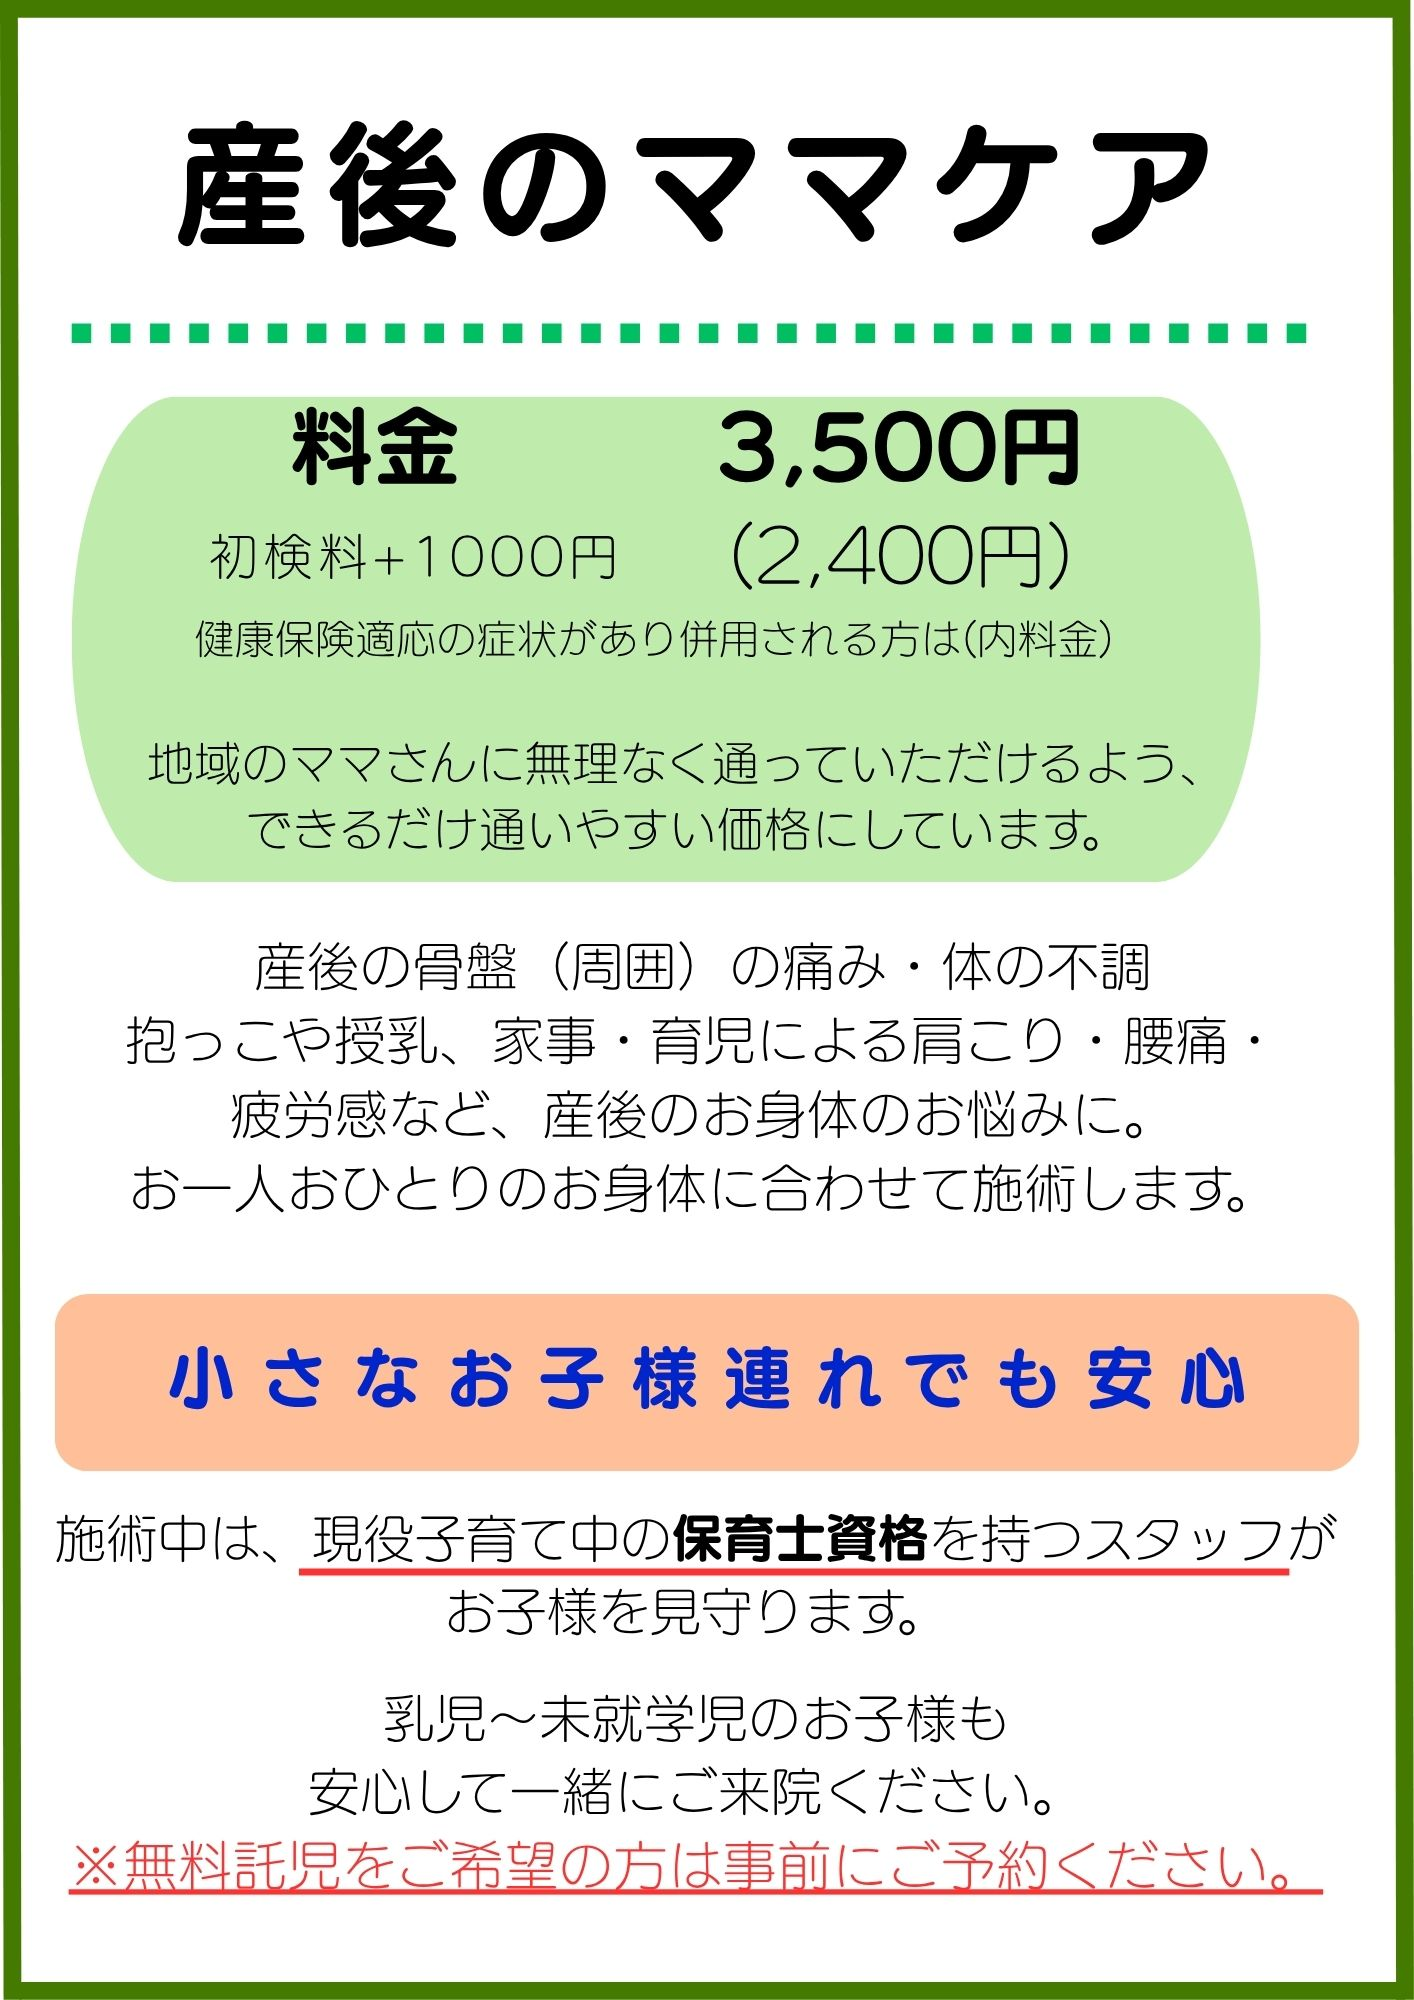
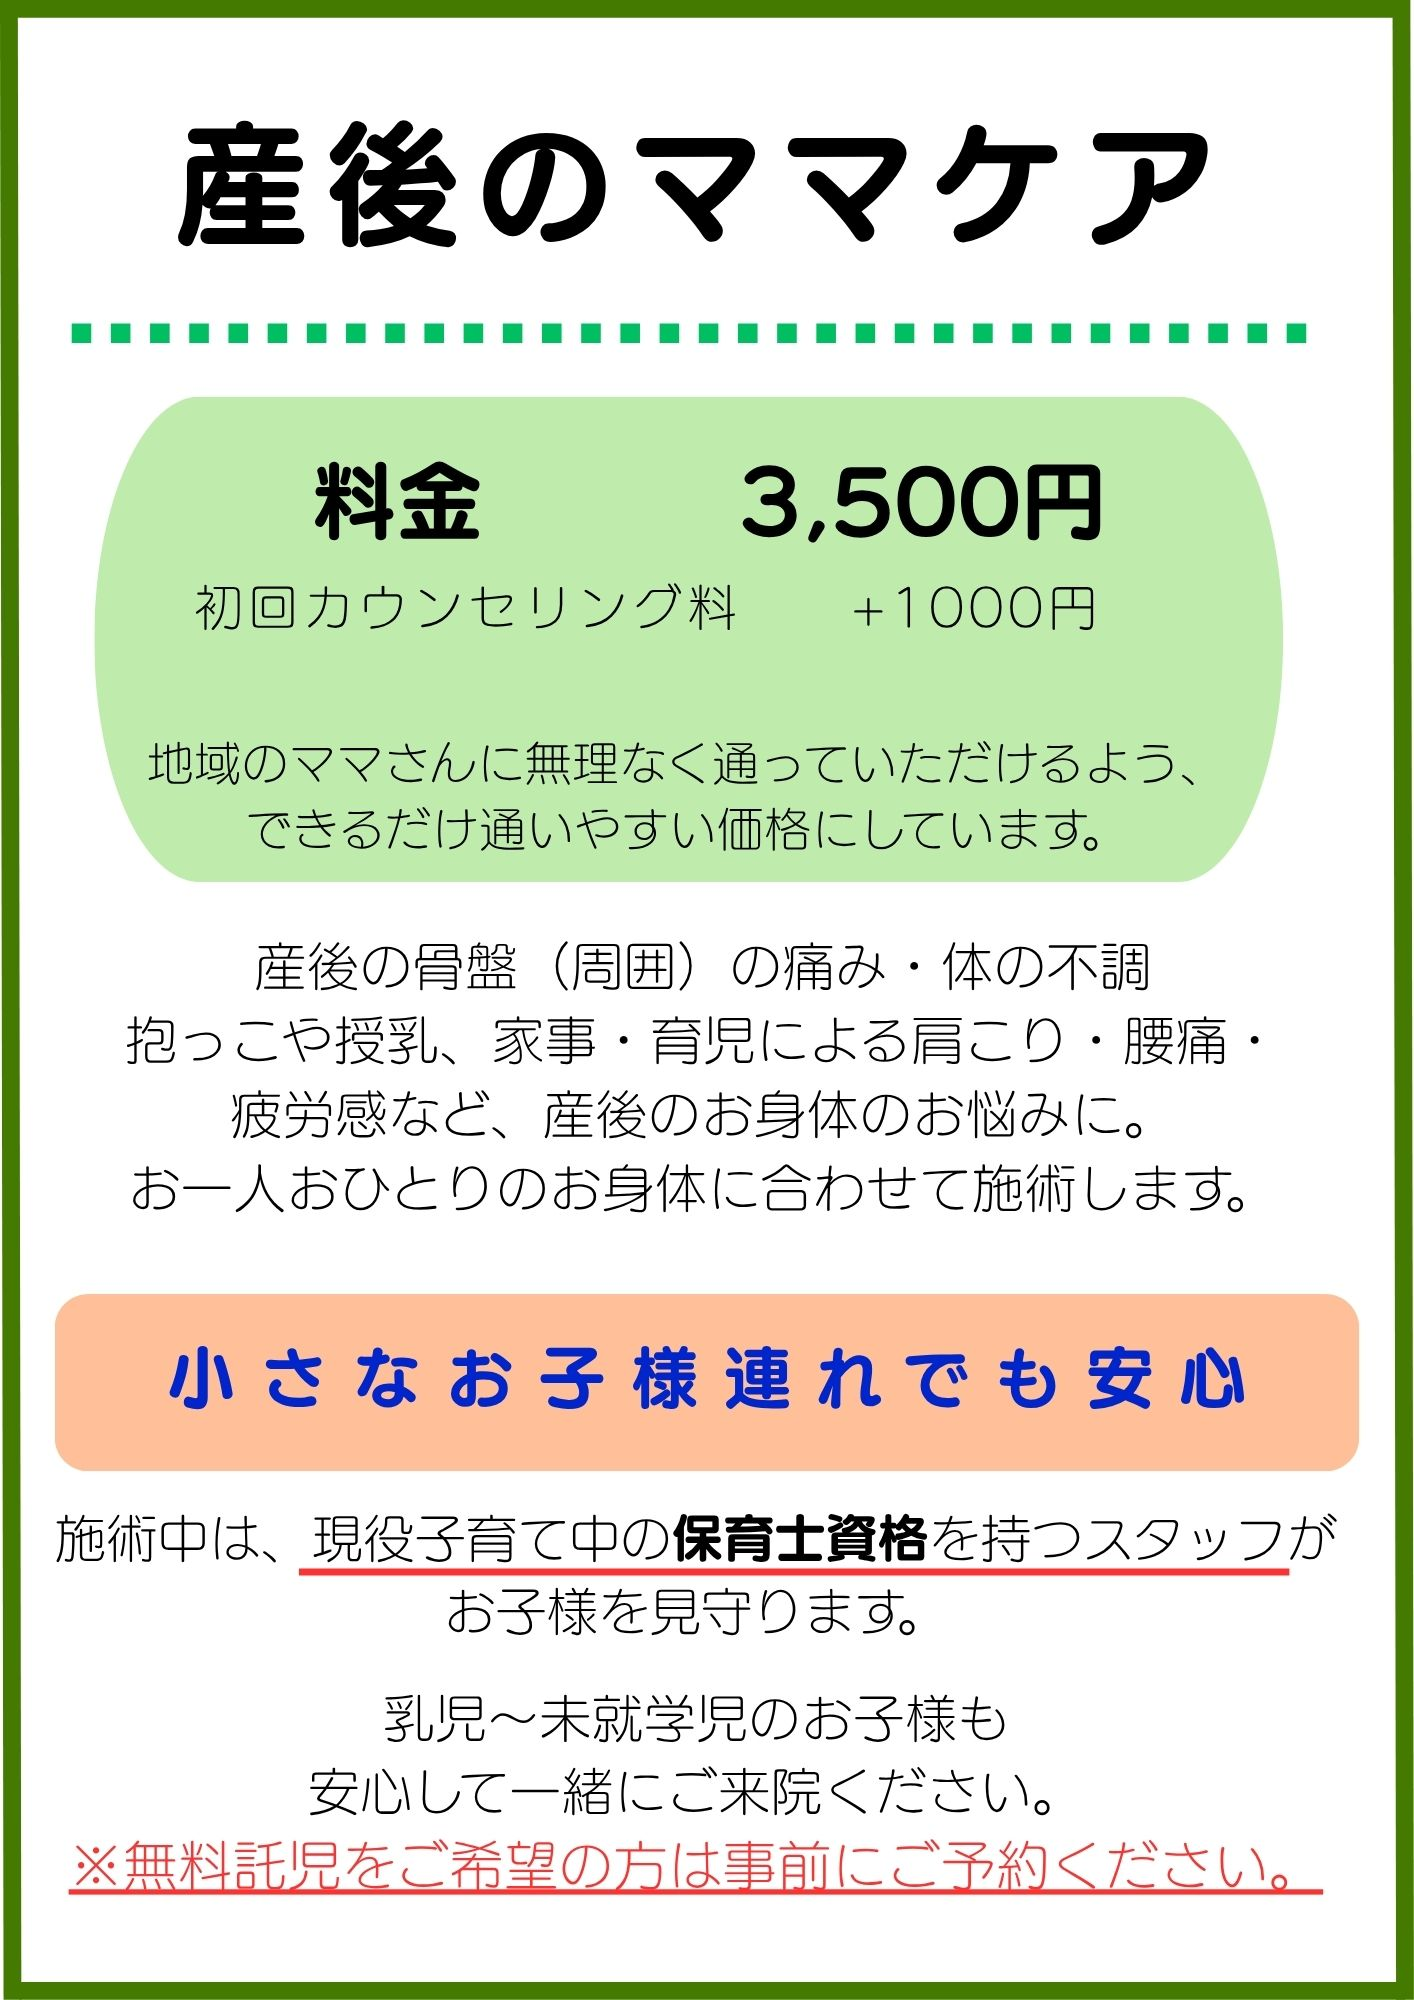
Add files via upload

diff --git a/index.html b/index.html
@@ -510,7 +510,7 @@
           class="mt-3 overflow-hidden rounded-xl border border-gray-100"
         >
           <img
-            src="pain.png"
+            src="pain.jpg"
             alt="慢性的な痛みのケア料金"
             class="w-full"
           >
@@ -599,7 +599,7 @@
           class="mt-3 overflow-hidden rounded-xl border border-gray-100"
         >
           <img
-            src="relax.png"
+            src="relax.jpg"
             alt="リラクゼーション料金"
             class="w-full"
           >
